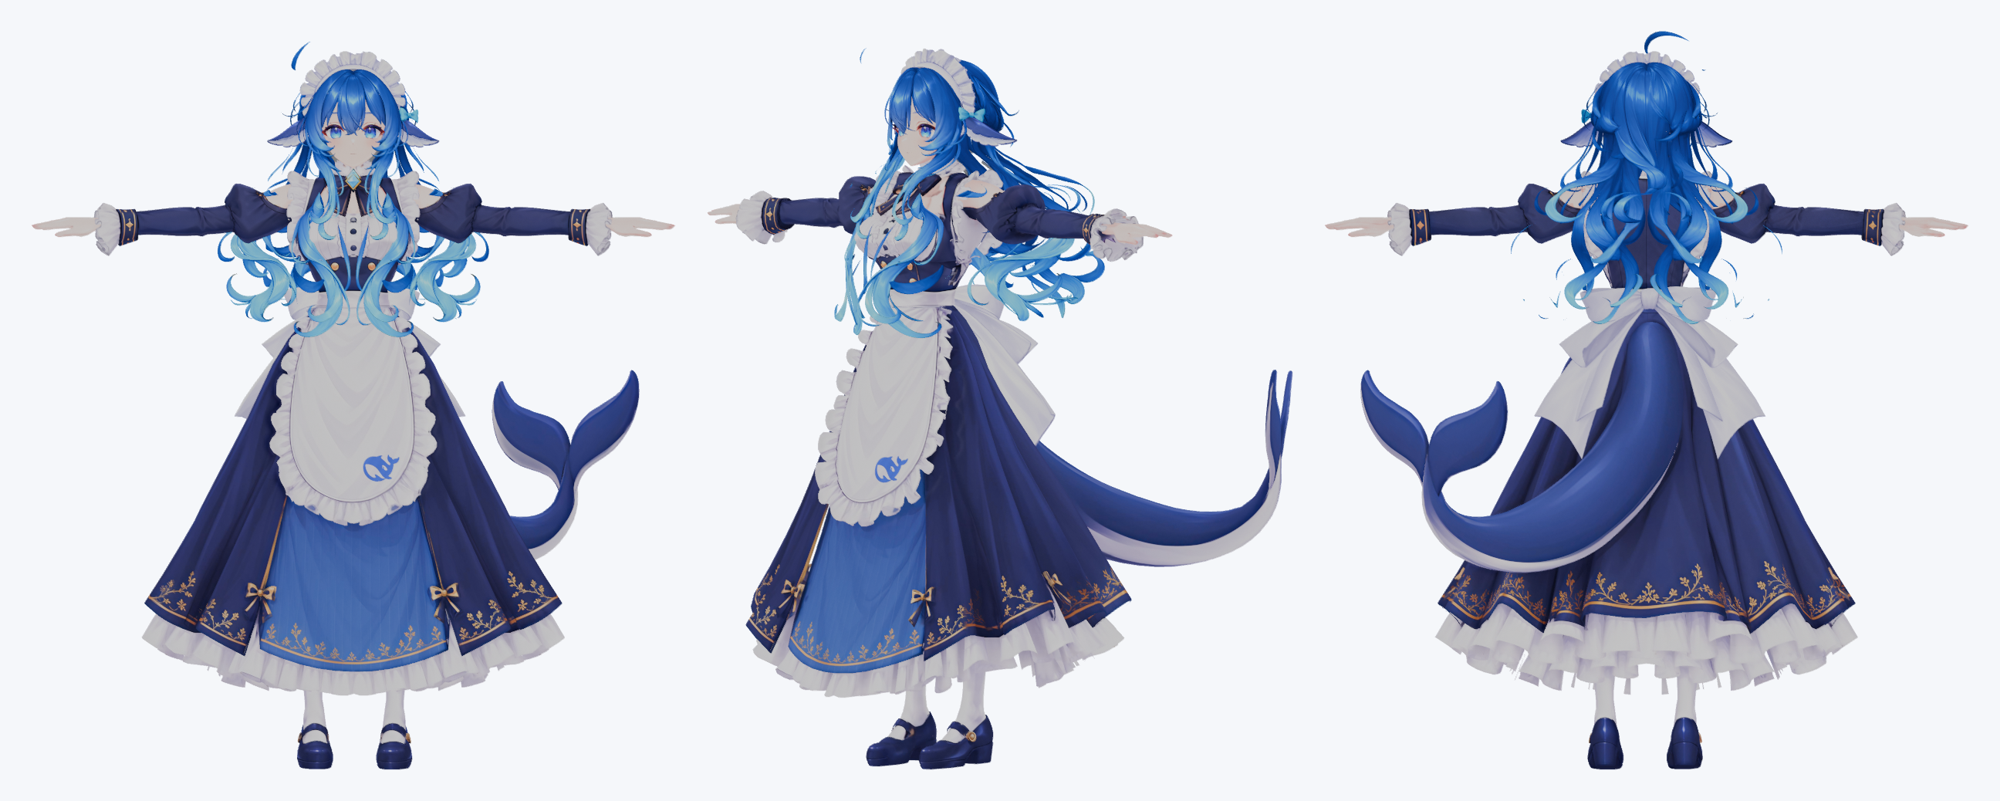
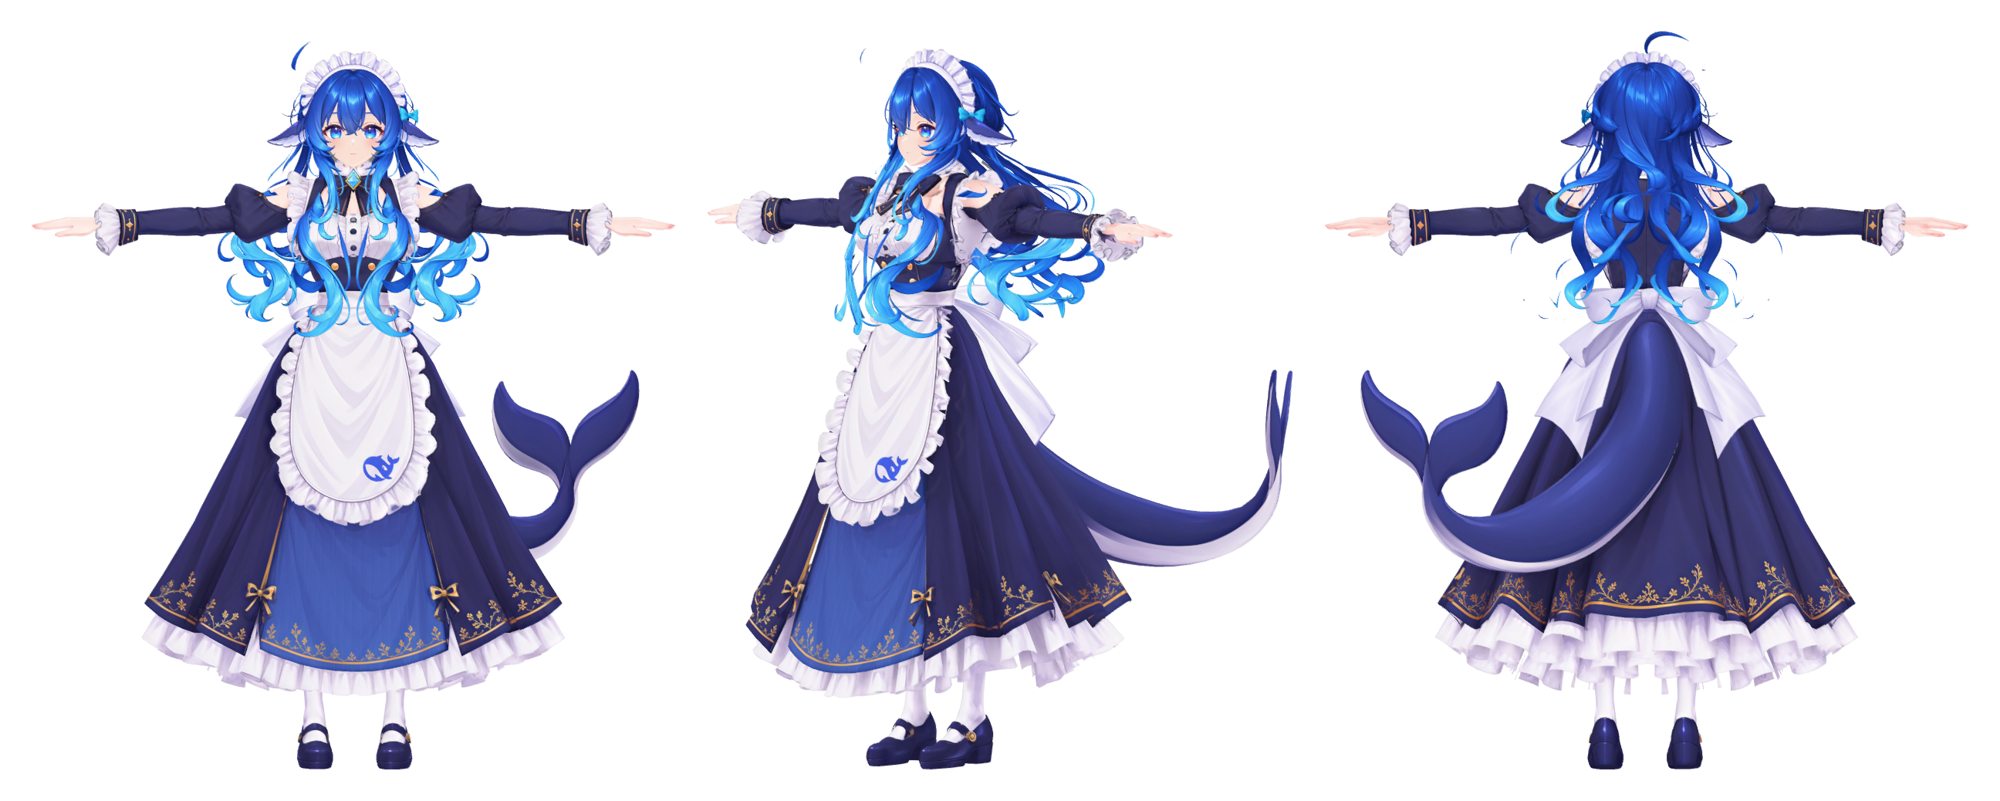
プレビューを明るくし、英語と中国語のREADMEを追加しました
プレビュー画像をStandardの色変換で撮り直し、テクスチャ本来の明るさにしました。英語版と簡体字中国語版のREADMEを追加し、日本語版を正とする旨と言語の切り替えリンクを入れました。Issuesで不具合を受け付け、AIを使って修正することも書いています。

diff --git a/README.en.md b/README.en.md
@@ -1,0 +1,86 @@
+# DeepSeek-chan VRM
+
+<p align="center">
+  <a href="README.md">日本語</a> · English · <a href="README.zh-CN.md">简体中文</a>
+</p>
+
+<p align="center">
+  <img src="docs/images/preview.png" alt="The DeepSeek-chan VRM model in a T-pose, seen from the front, front-left, and back" width="100%">
+</p>
+<p align="center"><sub>The model shown in Blender, without shading. From left: front, front-left, back.</sub></p>
+
+This is the VRM 1.0 model of DeepSeek-chan. It was made with the character modeling kit [Charakuru (きゃらくる)](https://github.com/nanocle/Charakuru).
+
+> The Japanese README is the main version. If this English version and the Japanese version differ, the Japanese version applies.
+
+## Files
+
+| File | Contents |
+| --- | --- |
+| `DeepSeek-chan.vrm` | The finished VRM 1.0 model. It loads directly in apps that support VRM. |
+| `DeepSeek-chan.blend` | The Blender file the VRM was exported from (made with Blender 5.2 and VRM Add-on for Blender). The textures are packed inside the file. |
+
+## Model specifications
+
+- VRM 1.0 with MToon materials
+- Expressions: 18 presets (happy, angry, sad, relaxed, surprised, blinks, the mouth shapes for vowels, gaze, and more) and 23 part expressions that the presets are built from
+- Gaze: driven by expressions (shape keys)
+- Spring bones: 40 chains (hair, skirt, whale tail, ribbons) and 11 colliders
+- Polygons: about 92,000 (almost all triangles)
+
+## Terms of use
+
+Follow the terms registered in the VRM ([VRM Public License 1.0](https://vrm.dev/licenses/1.0/)).
+
+| Item | Terms |
+| --- | --- |
+| Author | ニケ (Nike) |
+| Use as an avatar | Anyone |
+| Commercial use | Allowed for individuals' profit; not allowed for corporations |
+| Credit | Required |
+| Modification | Allowed |
+| Redistribution | Not allowed |
+| Excessively sexual, excessively violent, political or religious, antisocial, or hateful use | Not allowed |
+
+Treat `DeepSeek-chan.blend` under the same terms as the VRM.
+
+## Made with Charakuru
+
+This model was not made the usual way, where a person builds the shape in Blender or VRoid Studio. Knowing the differences below will make editing the model easier.
+
+### How it differs
+
+A typical VRM is made by a person who builds the shape in VRoid Studio or Blender, sets up the bones and weights, and converts it to VRM with UniVRM or VRM Add-on for Blender.
+
+With Charakuru, a person and AI agents share the work, starting from a single character illustration.
+
+1. An AI agent draws the head (with hair) and the body from four directions each, plus a full-body three-view drawing, based on the original illustration.
+2. An AI agent operates [Tripo](https://www.tripo3d.ai/) to generate candidate 3D models of the head and body from those images. A person picks the candidates to use. Texture generation and rigging are also done in Tripo.
+3. An AI agent operates Blender to separate and classify the parts and to set up the weights (transferred from a base body included in the kit), spring bones, and expressions.
+4. A person checks the images, candidates, proportions, and motion in a local app and makes the decisions. No step requires a person to operate Blender directly.
+
+The fixes made before release (expressions, blinking, fingers, skirt, tail, the gap at the base of the neck, and more) were also done by AI agents with Blender scripts.
+
+### Things to know before editing
+
+- **The mesh is a triangle mesh generated by AI.** It is not shaped with quads and edge loops like a hand-made model, so edits that rely on loop selection or subdivision are difficult.
+- **The face and the back of the head are separate meshes.** `Head` covers only the front of the face, and `Hair` covers the back of the head. Without the hair, the back of the head is open.
+- **The textures are 4K images generated per part.** The head, hair, upper body, accessories, and other parts each have their own texture. They are not painted on a single hand-arranged UV layout.
+- **Spring bone parts are separate meshes.** Swinging hair strands, the skirt, the tail, and the ribbons are split into meshes named `Spring_xx_...`.
+- **The expressions are shape keys made with scripts.** Shape keys on `Head` are registered as part expressions (`detail_...`), and the preset expressions combine them.
+- **Production names remain.** The Blend file has scenes and collections whose names start with `CharaKit_`. Charakuru used them to manage production; they do not affect the VRM.
+
+### Not included
+
+- The original illustration and the images generated during production
+- The Charakuru project file (`project.charakit`, about 1 GB) and the production folder (about 29 GB), because of their size
+
+## Issues and feedback
+
+If anything bothers you, please let me know in [Issues](https://github.com/tegnike/deepseek-chan-vrm/issues). I will fix it.
+
+Please note that I am not a 3D modeling expert, so I make the fixes with AI.
+
+## Changelog
+
+- 2026-10-31: Released the version with the gap at the base of the neck fixed

diff --git a/README.zh-CN.md b/README.zh-CN.md
@@ -1,0 +1,86 @@
+# DeepSeek-chan VRM
+
+<p align="center">
+  <a href="README.md">日本語</a> · <a href="README.en.md">English</a> · 简体中文
+</p>
+
+<p align="center">
+  <img src="docs/images/preview.png" alt="DeepSeek-chan 的 VRM 模型，T 姿势的正面、左前方和背面" width="100%">
+</p>
+<p align="center"><sub>在 Blender 中显示的模型（无阴影）。从左到右：正面、左前方、背面。</sub></p>
+
+这是 DeepSeek-chan 的 VRM 1.0 模型，使用角色建模工具包 [Charakuru（きゃらくる）](https://github.com/nanocle/Charakuru) 制作。
+
+> 本项目以日文 README 为主。中文版与日文版内容不一致时，以日文版为准。
+
+## 文件
+
+| 文件 | 内容 |
+| --- | --- |
+| `DeepSeek-chan.vrm` | 完成的 VRM 1.0 模型，可以直接在支持 VRM 的应用中打开。 |
+| `DeepSeek-chan.blend` | 导出 VRM 所用的 Blender 文件（使用 Blender 5.2 和 VRM Add-on for Blender 制作）。贴图已打包在文件内。 |
+
+## 模型规格
+
+- VRM 1.0，材质为 MToon
+- 表情：18 个预设表情（喜、怒、哀、乐、惊讶、眨眼、元音口型、视线等），以及组成这些预设的 23 个部件表情
+- 视线：通过表情（形态键）控制
+- 摇摆骨骼：40 条（头发、裙子、鲸鱼尾巴、丝带），碰撞体 11 个
+- 面数：约 9.2 万（几乎全部为三角面）
+
+## 使用条款
+
+请遵守 VRM 中登记的使用条款（[VRM 公共许可证 1.0](https://vrm.dev/licenses/1.0/)）。
+
+| 项目 | 条款 |
+| --- | --- |
+| 作者 | ニケ（Nike） |
+| 作为虚拟形象使用 | 任何人均可 |
+| 商业使用 | 个人营利可以，法人不可以 |
+| 署名 | 需要 |
+| 修改 | 可以 |
+| 再分发 | 不可以 |
+| 过度色情、过度暴力、政治或宗教目的、反社会或仇恨目的的使用 | 不可以 |
+
+`DeepSeek-chan.blend` 也请按照与 VRM 相同的条款使用。
+
+## 使用 Charakuru 制作
+
+一般的 VRM 由人在 Blender 或 VRoid Studio 中制作造型，而这个模型采用了不同的方法。修改模型前了解以下差异，会更容易上手。
+
+### 制作方法的差异
+
+一般的 VRM 由人在 VRoid Studio 或 Blender 中制作造型，设置骨骼和权重，再用 UniVRM 或 VRM Add-on for Blender 转换为 VRM。
+
+使用 Charakuru 时，从一张角色插画开始，由人和 AI 智能体分工完成。
+
+1. AI 智能体根据原始插画，绘制头部（含头发）和身体各 4 个方向的图片，以及全身三视图。
+2. AI 智能体操作 [Tripo](https://www.tripo3d.ai/)，根据这些图片生成头部和身体的 3D 模型候选。由人选择要使用的候选。贴图生成和绑定也在 Tripo 中完成。
+3. AI 智能体操作 Blender，完成部件的分离和分类，并设置权重（从工具包附带的素体转移）、摇摆骨骼和表情。
+4. 人在本地应用中检查图片、候选、身体比例和动作并做出判断。没有需要人直接操作 Blender 的步骤。
+
+发布前的修正（表情、眨眼、手指、裙子、尾巴、脖子根部的缝隙等）也由 AI 智能体通过 Blender 脚本完成。
+
+### 修改时的注意事项
+
+- **网格是 AI 生成的三角面网格。** 它不像手工制作的模型那样由四边面和循环边整理而成，因此难以进行依赖循环选择或细分的编辑。
+- **脸部和后脑勺是分开的网格。** `Head` 只包含脸的前侧，后脑勺由 `Hair`（头发）覆盖。去掉头发后，头的后方是开口的。
+- **贴图是按部件生成的 4K 图片。** 头部、头发、上半身、配饰等各有自己的贴图，并不是在一张手工排布的 UV 上绘制的。
+- **摇摆部件是独立的网格。** 摇摆的发束、裙子、尾巴和丝带被分成名为 `Spring_xx_...` 的网格。
+- **表情是用脚本制作的形态键。** `Head` 的形态键被登记为部件表情（`detail_...`），预设表情由它们组合而成。
+- **保留了制作管理用的名称。** Blend 文件中有以 `CharaKit_` 开头的场景和集合。这些是 Charakuru 在制作时用于管理的名称，与 VRM 的运行无关。
+
+### 未包含的内容
+
+- 原始插画和制作过程中生成的图片
+- Charakuru 的项目文件（`project.charakit`，约 1 GB）和制作文件夹（约 29 GB），因文件过大未包含
+
+## 问题与反馈
+
+如果有在意的地方，请在 [Issues](https://github.com/tegnike/deepseek-chan-vrm/issues) 中告诉我，我会进行修正。
+
+不过我不是 3D 建模的专家，修正会借助 AI 完成，敬请谅解。
+
+## 更新记录
+
+- 2026-10-31：发布修正了脖子根部缝隙的版本

diff --git a/README.md b/README.md
@@ -1,6 +1,10 @@
 # DeepSeek-chan VRM
 
 <p align="center">
+  日本語 · <a href="README.en.md">English</a> · <a href="README.zh-CN.md">简体中文</a>
+</p>
+
+<p align="center">
   <img src="docs/images/preview.png" alt="DeepSeek-chanのVRMモデル。正面、斜め前、背面から見たTポーズ" width="100%">
 </p>
 <p align="center"><sub>Blenderで表示したモデル（陰影なし）。左から正面、斜め前、背面。</sub></p>
@@ -68,6 +72,12 @@ VRM に登録した利用条件（[VRM パブリック・ライセンス 1.0](ht
 
 - 元のイラストと、制作の途中で生成した画像
 - きゃらくるのプロジェクトファイル（`project.charakit`、約1GB）と制作フォルダ（約29GB）。サイズが大きいため収録していません。
+
+## 不具合・ご意見
+
+気になったところがあれば、[Issues](https://github.com/tegnike/deepseek-chan-vrm/issues) で教えてください。修正します。
+
+ただ、私は3Dモデルの専門家ではないので、修正は AI を使って行います。ご了承ください。
 
 ## 更新履歴
 
